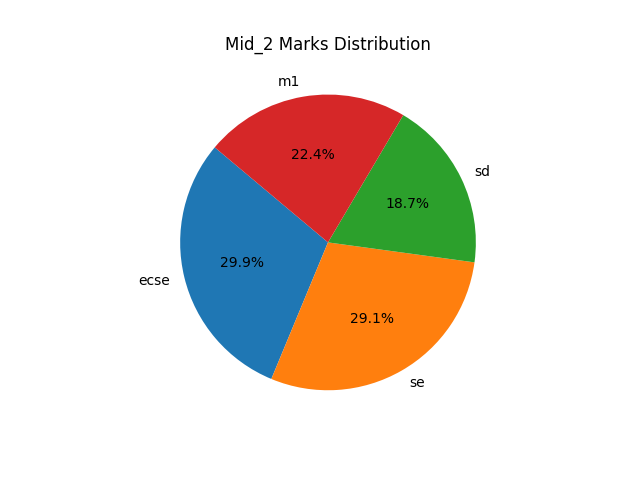
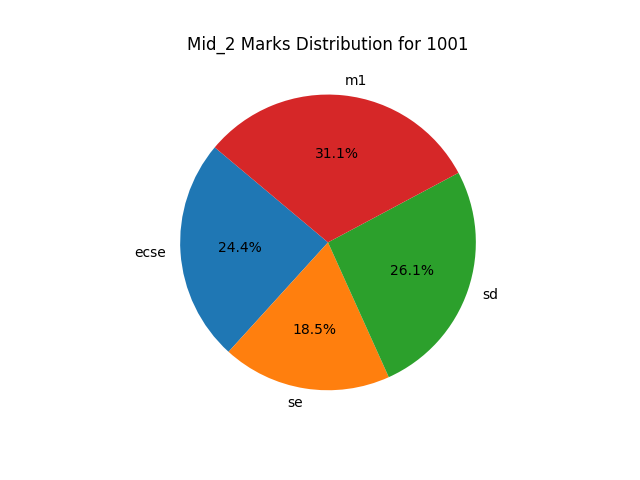
Updated app.py

diff --git a/app.py b/app.py
@@ -243,30 +243,34 @@ def performance():
     conn = sqlite3.connect('rrp.db')
     c = conn.cursor()
     if ('sid' in session) :
+        sid = session['sid']
         exams = ["MID_1","MID_2","End_Semester"]
         colors = ["skyblue","lightgreen","orange","red"]
         for i in range(0,3):
             c.execute(f"SELECT ecse,se,sd,m1 from {exams[i]} where sid = ?",(session['sid'],))
             res = c.fetchone()
+            print("tuple:",res)
             res = list(res)
             subjects = ["ecse","se","sd","m1"]
             print(res)
             plt.plot(subjects,res,color=f"{colors[i]}",marker="o",label=f"{exams[i]}")
-        plt.title("Your performance in each subject!")
+        plt.title(f"Performance in each subject for {sid}!!")
         plt.xlabel("subjects")
         plt.ylabel("marks")
-        plt.legend()
-        
+        plt.legend()        
         static_dir = os.path.join("RRP", "static")
+        print(static_dir)
         os.makedirs(static_dir, exist_ok=True)
-        perfplotpath = os.path.join(static_dir,"performance.png")
+        perfplotpath = os.path.join(static_dir,f"performance.png")
         plt.savefig(perfplotpath)
-        return render_template("performance.html",plot = "performance.png",mark = 10)
+        plt.close()
+        return render_template("performance.html",plot = f"performance.png",mark = 10)
     return redirect('/student')
 
 @app.route('/mid_1')
 def exam():
     if 'sid' in session:
+        sid = session['sid']
         conn = sqlite3.connect('rrp.db')
         c = conn.cursor()
         c.execute("SELECT m1, ecse, se, sd FROM MID_1 WHERE sid = ?", (session['sid'],))
@@ -293,32 +297,31 @@ def exam():
         plt.plot(subjects,marks,color="blue",marker="o",label="student")
         plt.plot(subjects,max,color="red",marker="o",label="max")
         plt.plot(subjects,avg,color="green",marker="o",label="avg")
-        plt.title("Subject wise Mid_1 analysis")
+        plt.title(f"Subject wise Mid_1 analysis for ")
         plt.xlabel("Subjects")
         plt.ylabel("marks")
         plt.legend()
         # Ensure static directory exists
-        static_dir = os.path.join("static")
+        static_dir = os.path.join("RRP","static")
         os.makedirs(static_dir, exist_ok=True)
-        
         # Save plot
-        plot_path = os.path.join("static", "mid_1_analysis.png")
+        plot_path = os.path.join(static_dir, f"mid_1_analysis.png")
         plt.savefig(plot_path)
         plt.close()
-        
         plt.pie(marks, labels=subjects, autopct='%1.1f%%', startangle=140)
-        plt.title("Mid_1 Marks Distribution")
-        pie_plot_path = os.path.join(static_dir, "mid_1_piechart.png")
+        plt.title(f"Mid_1 Marks Distribution for {sid} ")
+        pie_plot_path = os.path.join(static_dir, f"mid_1_piechart.png")
         plt.savefig(pie_plot_path)
         plt.close()        
         # Render template with data
-        return render_template('mid_1.html', marks=marks, subjects=subjects, n=len(subjects), plot="mid_1_analysis.png",pie = "mid_1_piechart.png")
+        return render_template('mid_1.html', marks=marks, subjects=subjects, n=len(subjects), plot=f"mid_1_analysis.png",pie = f"mid_1_piechart.png")
     return redirect('/logout')
 
 # MID 2 route
 @app.route('/mid_2')
 def mid_2():
     if 'sid' in session:
+        sid = session['sid']
         conn = sqlite3.connect('rrp.db')
         c = conn.cursor()
         c.execute("SELECT m1, ecse, se, sd FROM MID_2 WHERE sid = ?", (session['sid'],))
@@ -345,26 +348,26 @@ def mid_2():
         plt.plot(subjects,marks,color="blue",marker="o",label="student")
         plt.plot(subjects,max,color="red",marker="o",label="max")
         plt.plot(subjects,avg,color="green",marker="o",label="avg")
-        plt.title("Subject wise Mid_2 analysis")
+        plt.title(f"Subject wise Mid_2 analysis for ")
         plt.xlabel("Subjects")
         plt.ylabel("marks")
         plt.legend()
         # Ensure static directory exists
-        static_dir = os.path.join("static")
+        static_dir = os.path.join("RRP","static")
         os.makedirs(static_dir, exist_ok=True)
         
         # Save plot
-        plot_path = os.path.join("static", "mid_2_analysis.png")
+        plot_path = os.path.join(static_dir, f"mid_2_analysis.png")
         plt.savefig(plot_path)
         plt.close()
         
         plt.pie(marks, labels=subjects, autopct='%1.1f%%', startangle=140)
-        plt.title("Mid_2 Marks Distribution")
-        pie_plot_path = os.path.join(static_dir, "mid_2_piechart.png")
+        plt.title(f"Mid_2 Marks Distribution for {sid}")
+        pie_plot_path = os.path.join(static_dir, f"mid_2_piechart.png")
         plt.savefig(pie_plot_path)
         plt.close()        
         # Render template with data
-        return render_template('mid_2.html', marks=marks, subjects=subjects, n=len(subjects), plot="mid_2_analysis.png",pie = "mid_2_piechart.png")
+        return render_template('mid_2.html', marks=marks, subjects=subjects, n=len(subjects), plot="mid_2_analysis.png",pie = f"mid_2_piechart.png")
     return redirect('/logout')
 
 # END_SEM  route
@@ -408,9 +411,9 @@ def end_sem():
     plt.ylabel("Marks")
     plt.legend()
         
-    static_dir = os.path.join("static")
+    static_dir = os.path.join("RRP","static")
     os.makedirs(static_dir, exist_ok=True)
-    plot_path = os.path.join("static", "sem_analysis.png")
+    plot_path = os.path.join(static_dir, "sem_analysis.png")
     plt.savefig(plot_path)
     plt.close()
     return render_template('end_sem.html', marks=marks, subjects=subjects, n=len(subjects), plot="/static/sem_analysis.png")
